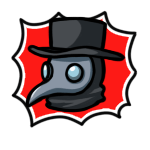
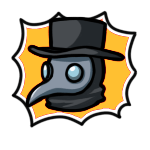
Updated PD Assets

diff --git a/Roles/PlagueDoctorRole.cs b/Roles/PlagueDoctorRole.cs
@@ -12,6 +12,7 @@ using DivaniMods.Assets;
 using DivaniMods.Buttons;
 using DivaniMods.Options;
 using TownOfUs;
+using TownOfUs.Assets;
 using TownOfUs.Extensions;
 using TownOfUs.Modules.Localization;
 using TownOfUs.Modules.Wiki;
@@ -95,12 +96,23 @@ public sealed class PlagueDoctorRole(IntPtr cppPtr)
             PlagueDoctorPlayer = targetPlayer;
             DivaniPlugin.Instance.Log.LogInfo($"PlagueDoctor: Player {targetPlayer.PlayerId} initialized as Plague Doctor (AmOwner: {targetPlayer.AmOwner})");
         }
+
+        if (Player.AmOwner)
+        {
+            HudManager.Instance.ImpostorVentButton.graphic.sprite = DivaniAssets.PlagueDoctorVentButton.LoadAsset();
+            HudManager.Instance.ImpostorVentButton.buttonLabelText.SetOutlineColor(PlagueDoctorColor);
+        }
     }
 
     public override void Deinitialize(PlayerControl targetPlayer)
     {
         RoleBehaviourStubs.Deinitialize(this, targetPlayer);
         TouRoleUtils.ClearTaskHeader(Player);
+        if (Player.AmOwner)
+        {
+            HudManager.Instance.ImpostorVentButton.graphic.sprite = TouAssets.VentSprite.LoadAsset();
+            HudManager.Instance.ImpostorVentButton.buttonLabelText.SetOutlineColor(TownOfUsColors.Impostor);
+        }
     }
 
     public override bool CanUse(IUsable usable)

diff --git a/Assets/DivaniAssets.cs b/Assets/DivaniAssets.cs
@@ -13,6 +13,7 @@ public static class DivaniAssets
     public static LoadableAsset<Sprite> PlacePortalButton { get; } = new LoadableResourceAsset($"{ShortPath}.PortalSprite.png", 115);
     public static LoadableAsset<Sprite> UsePortalButton { get; } = new LoadableResourceAsset($"{ShortPath}.PortalSprite.png", 115);
     public static LoadableAsset<Sprite> InfectButton { get; } = new LoadableResourceAsset($"{ShortPath}.InfectButton.png", 115);
+    public static LoadableAsset<Sprite> PlagueDoctorVentButton { get; } = new LoadableResourceAsset($"{ShortPath}.PDVent.png", 1024);
     // Frag button art is 512x512; lower ppu = larger on HUD (Lockdown uses 115).
     public static LoadableAsset<Sprite> FragGiveButton { get; } = new LoadableResourceAsset($"{ShortPath}.FragGive.png", 360);
     public static LoadableAsset<Sprite> FragPassButton { get; } = new LoadableResourceAsset($"{ShortPath}.FragPass.png", 360);
